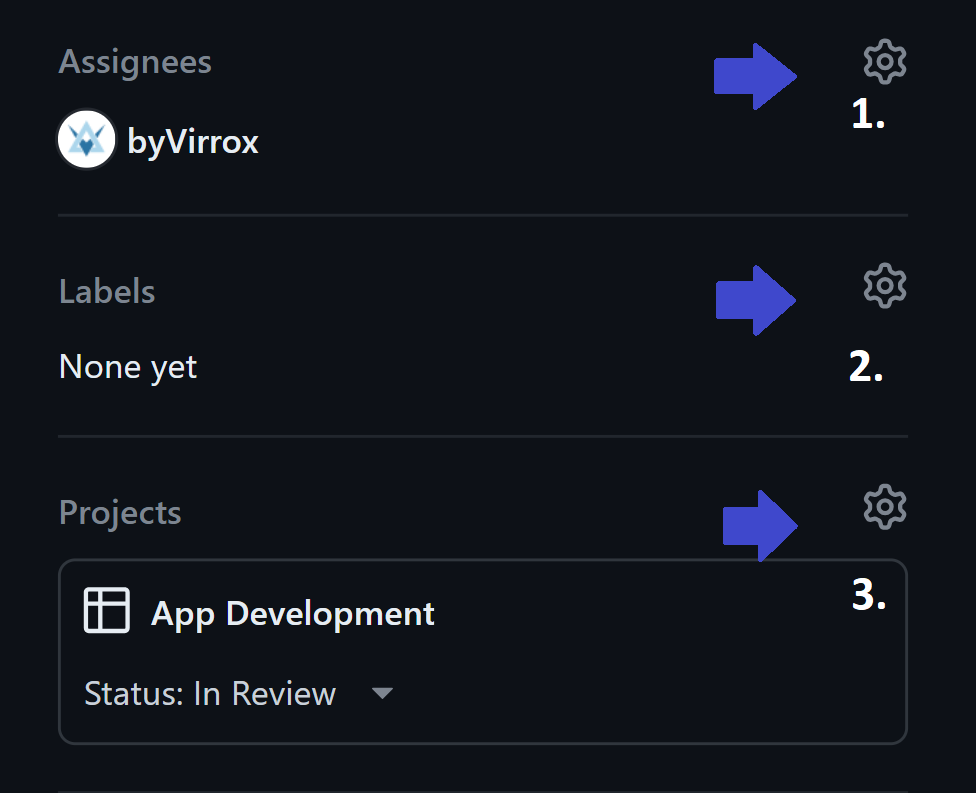
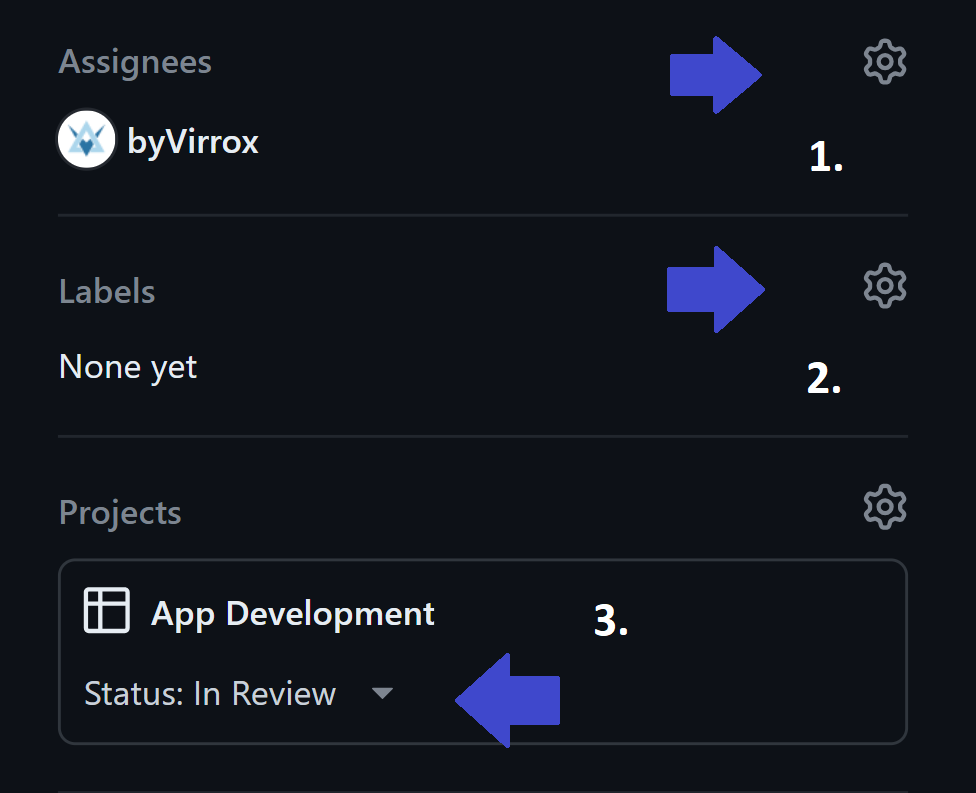
Finished

diff --git a/week3_workflow.md b/week3_workflow.md
@@ -99,41 +99,38 @@ Our workflow goes as following [link to the original](https://github.com/Softwar
 
 Here are a few examples provided to demonstrate some aspects of the workflow:
 
-| ![week2_SetupVS.png]() |
+| ![week3_AssigneIssue.png](https://github.com/byVirrox/portfolio_SET09102_Peter_Stibitz/blob/main/images/week3_AssigneIssue.png) |
 |:--:|
-| <b>Fig.1 - VS-Installer Workload Options</b>|
+| <b>Fig.1 - Assigning an Issue</b>|
 
-<ins>The current configuration is appropriate for developing a Application with MAUI.
-  But in case you would like to work with different languages/ frameworks/ Engines 
-  you would need to install these in the Installer later on additionally. 
-  (for Example Python, the Unity Engine, Azure, Node-JS, Linux in combination with C++ etc.) </ins>
+<ins>
+	1. By clicking on the gear next to assignee you can assing the issue to someone out of your team
+	2. Through Labels you can provide futher information concernig that task. They can also be changed by the gear.
+	3. When picking a Task, you should always keep on updating your status to according to your progress:
+	   (The status can take teh following values: Todo, In Progress, In Review, Done)
+</ins>
 
 
-by clicking on the gear next to 
- assignee and selecting your account.
+| ![week3_CommitMessage.png](https://github.com/byVirrox/portfolio_SET09102_Peter_Stibitz/blob/main/images/week3_CommitMessage.png) |
+|:--:|
+| <b>Fig.2 - Example of a commit Message</b>|
 
-Here, you should use screenshots and descriptive commentary to show that the required
-have been completed successfully.
+<ins>
+	A Commit Message should always be short so that you and your team members can read identify the right 
+	commit in case your cherry picking or serching for the cause of an issue. Nevertheless the message should
+	indicate cleary and precisly what has been done, where and maybe even why 
+</ins>
 
-**DO**
 
-* Consider the layout of your content from the point of view of the reader. Many raw
-  screenshots will take up a lot of space. It may be better to adopt a different strategy
-  such as
-  * Using thumbnails with links to full-size images
-  * Combining two or more screenshots into a single image 
-  * Using partial screenshots to highlight only the important information
-  * etc.
-* Provide links to the actual objects (e.g. task, pull request, etc.) in the team project
-  in GitHub
-* Read through your work to make sure that the information comes across clearly
+| ![week3_Pull_Request.png](https://github.com/byVirrox/portfolio_SET09102_Peter_Stibitz/blob/main/images/week3_Pull_Request.png) |
+|:--:|
+| <b>Fig.3 - Example of my Pull Request</b>|
 
-**DON'T**
-
-* Use humour or informal language
-* Waste space with trivial or self-evident commentary
-* Abbreviate your commentary using (e.g. by using bullet points). Your text should be in
-  the form of grammatically correct sentences.
+<ins>
+	Pull-Request (PR) are there to ensure that more than one developer has read through the code before pushing/merging it to a develop Branch. 
+	Otherwise issues can easyly go under and will sneak into the code of your colleagues. iT also prevents someone from accidentaly destroying
+	something on the develop/ main branch which slows down the workflow.
+</ins>
 
 ## Reflection
 
